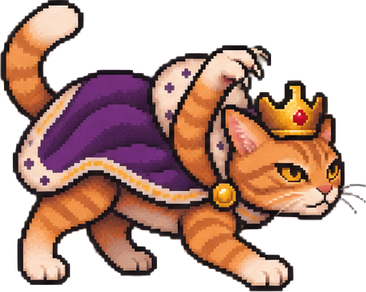
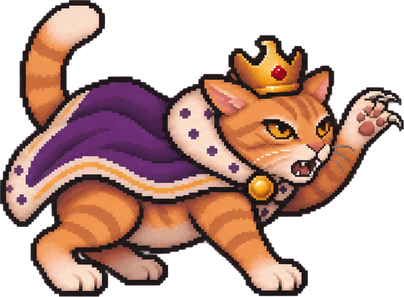
Puiutu: a better wind-up for the Cat King
Head up and hissing, one paw raised in front with claws out, coiled to strike,
instead of ducking with the paw curled behind his head.

diff --git a/life_of_puiutu_game.html b/life_of_puiutu_game.html
@@ -3066,7 +3066,7 @@ LIONI.throw=LIONI.roar; LIONI.def=LIONI.crack;          // aliases for the share
 const CKINGI={};
 ['walk0','walk1','walk2','walk3','walk4','walk5','walk6','walk7','stand','sit','wave','yell',
  'point','command','hurt','down','pounce','cast','idle','windup','swipe','land']
-  .forEach(k=>{ const im=new Image(); im.src='mobs/catking/'+k+'.png?v=5'; CKINGI[k]=im; });   // v4: redrawn in the game's pixel style
+  .forEach(k=>{ const im=new Image(); im.src='mobs/catking/'+k+'.png?v=6'; CKINGI[k]=im; });   // v4: redrawn in the game's pixel style
 CKINGI.rear=CKINGI.pounce; CKINGI.throw=CKINGI.yell; CKINGI.dash=CKINGI.pounce; CKINGI.def=CKINGI.down;
 // ── Rattus Magnus — the exact inverse of the Cat King, and his sheet says so ──
 // No materialise frames, no shatter frames: nothing here is a projection. He starts on all fours,
